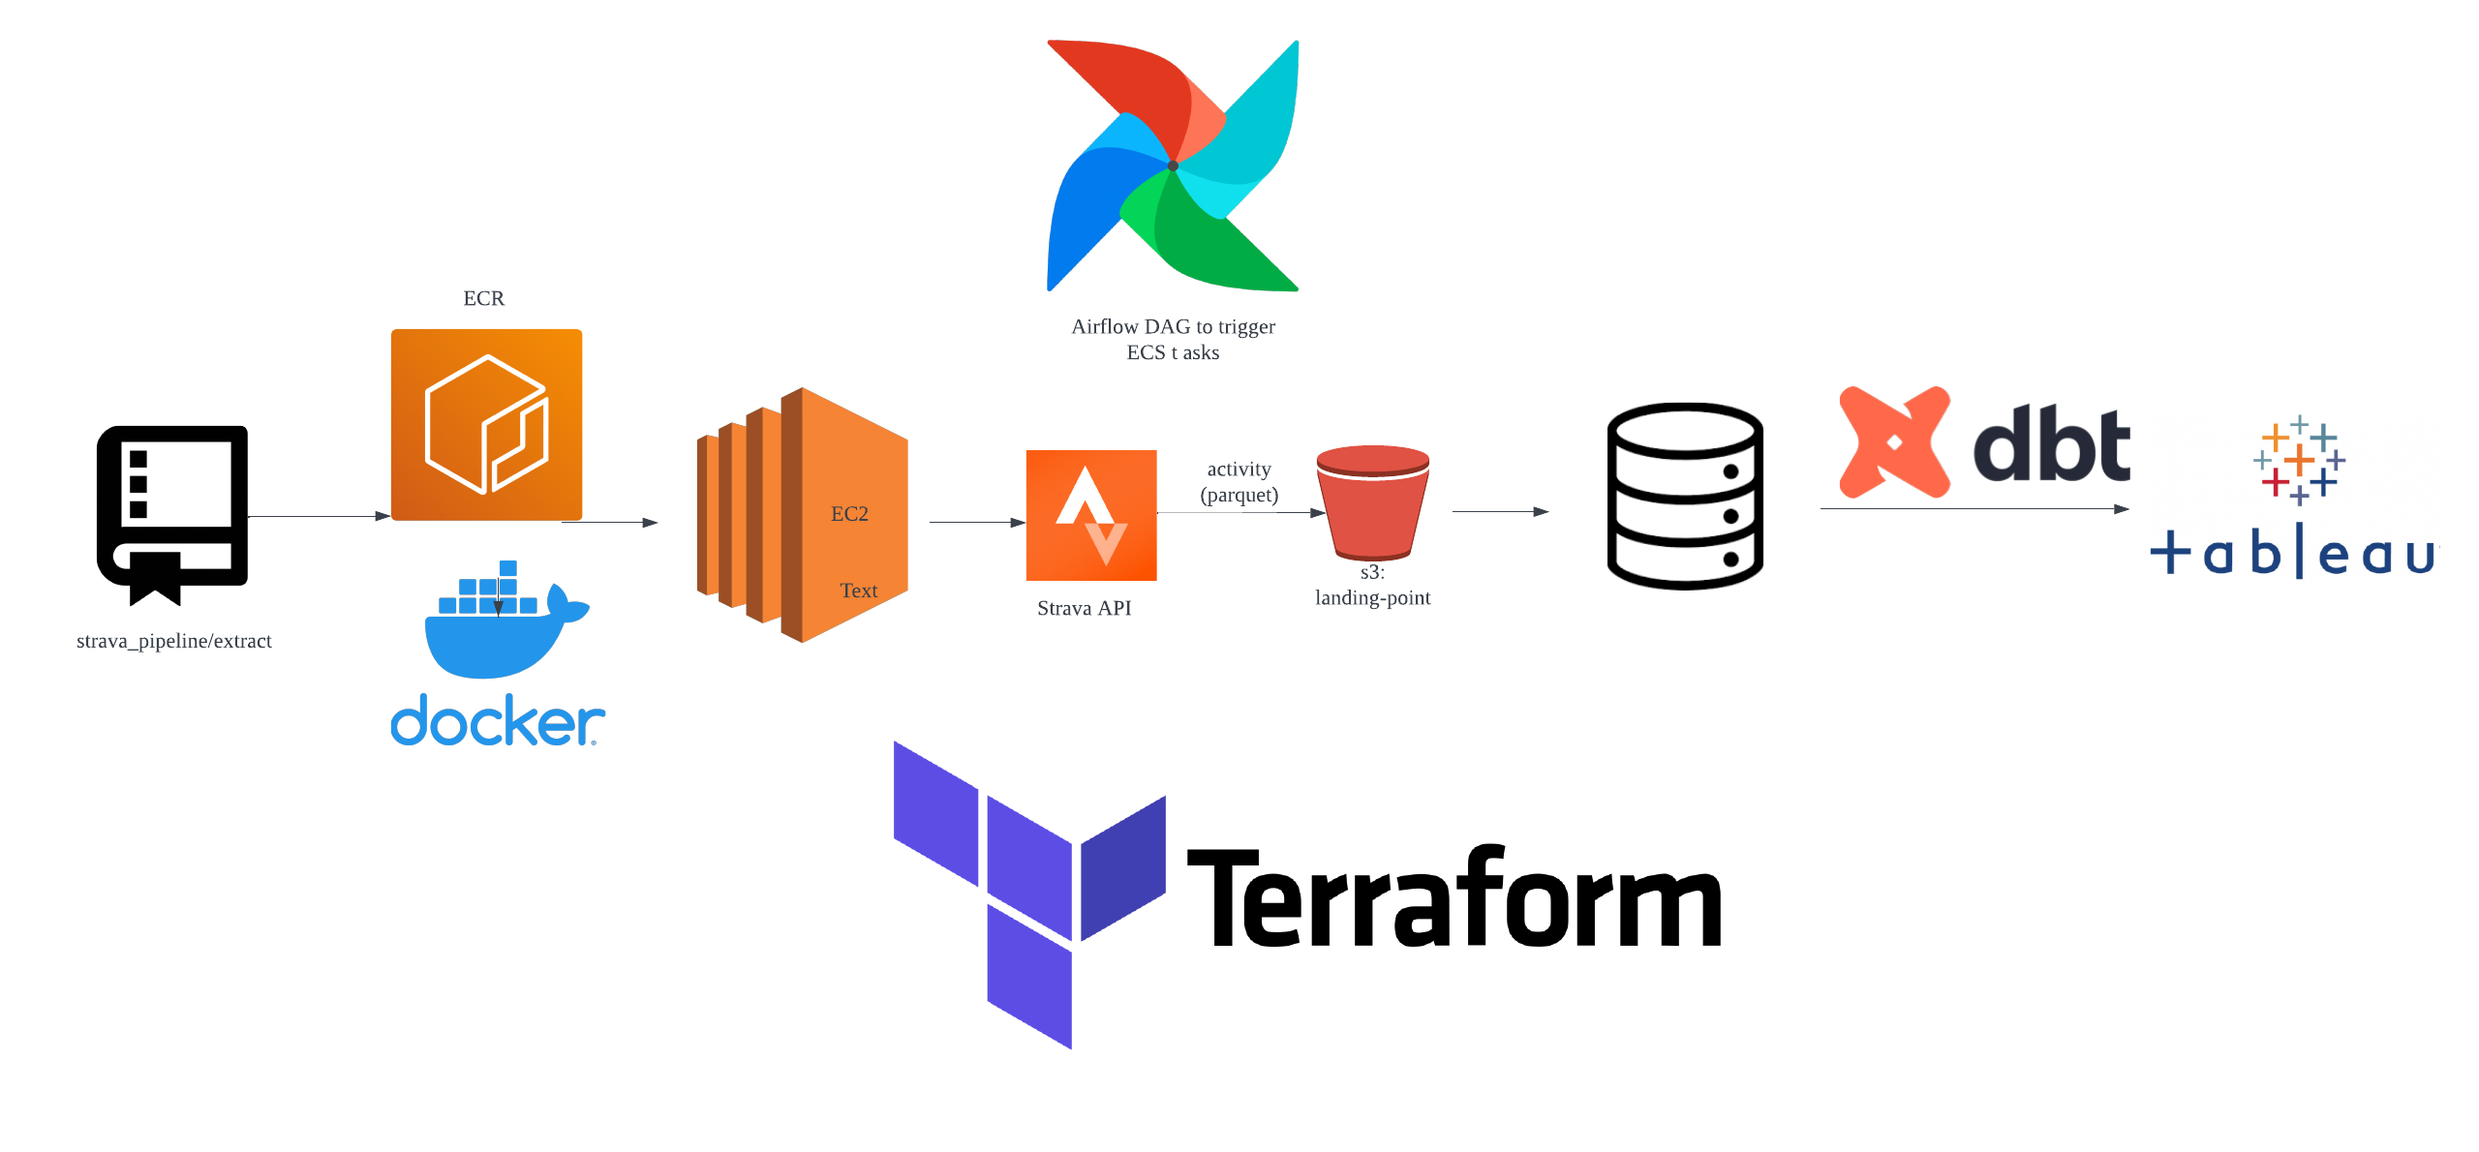
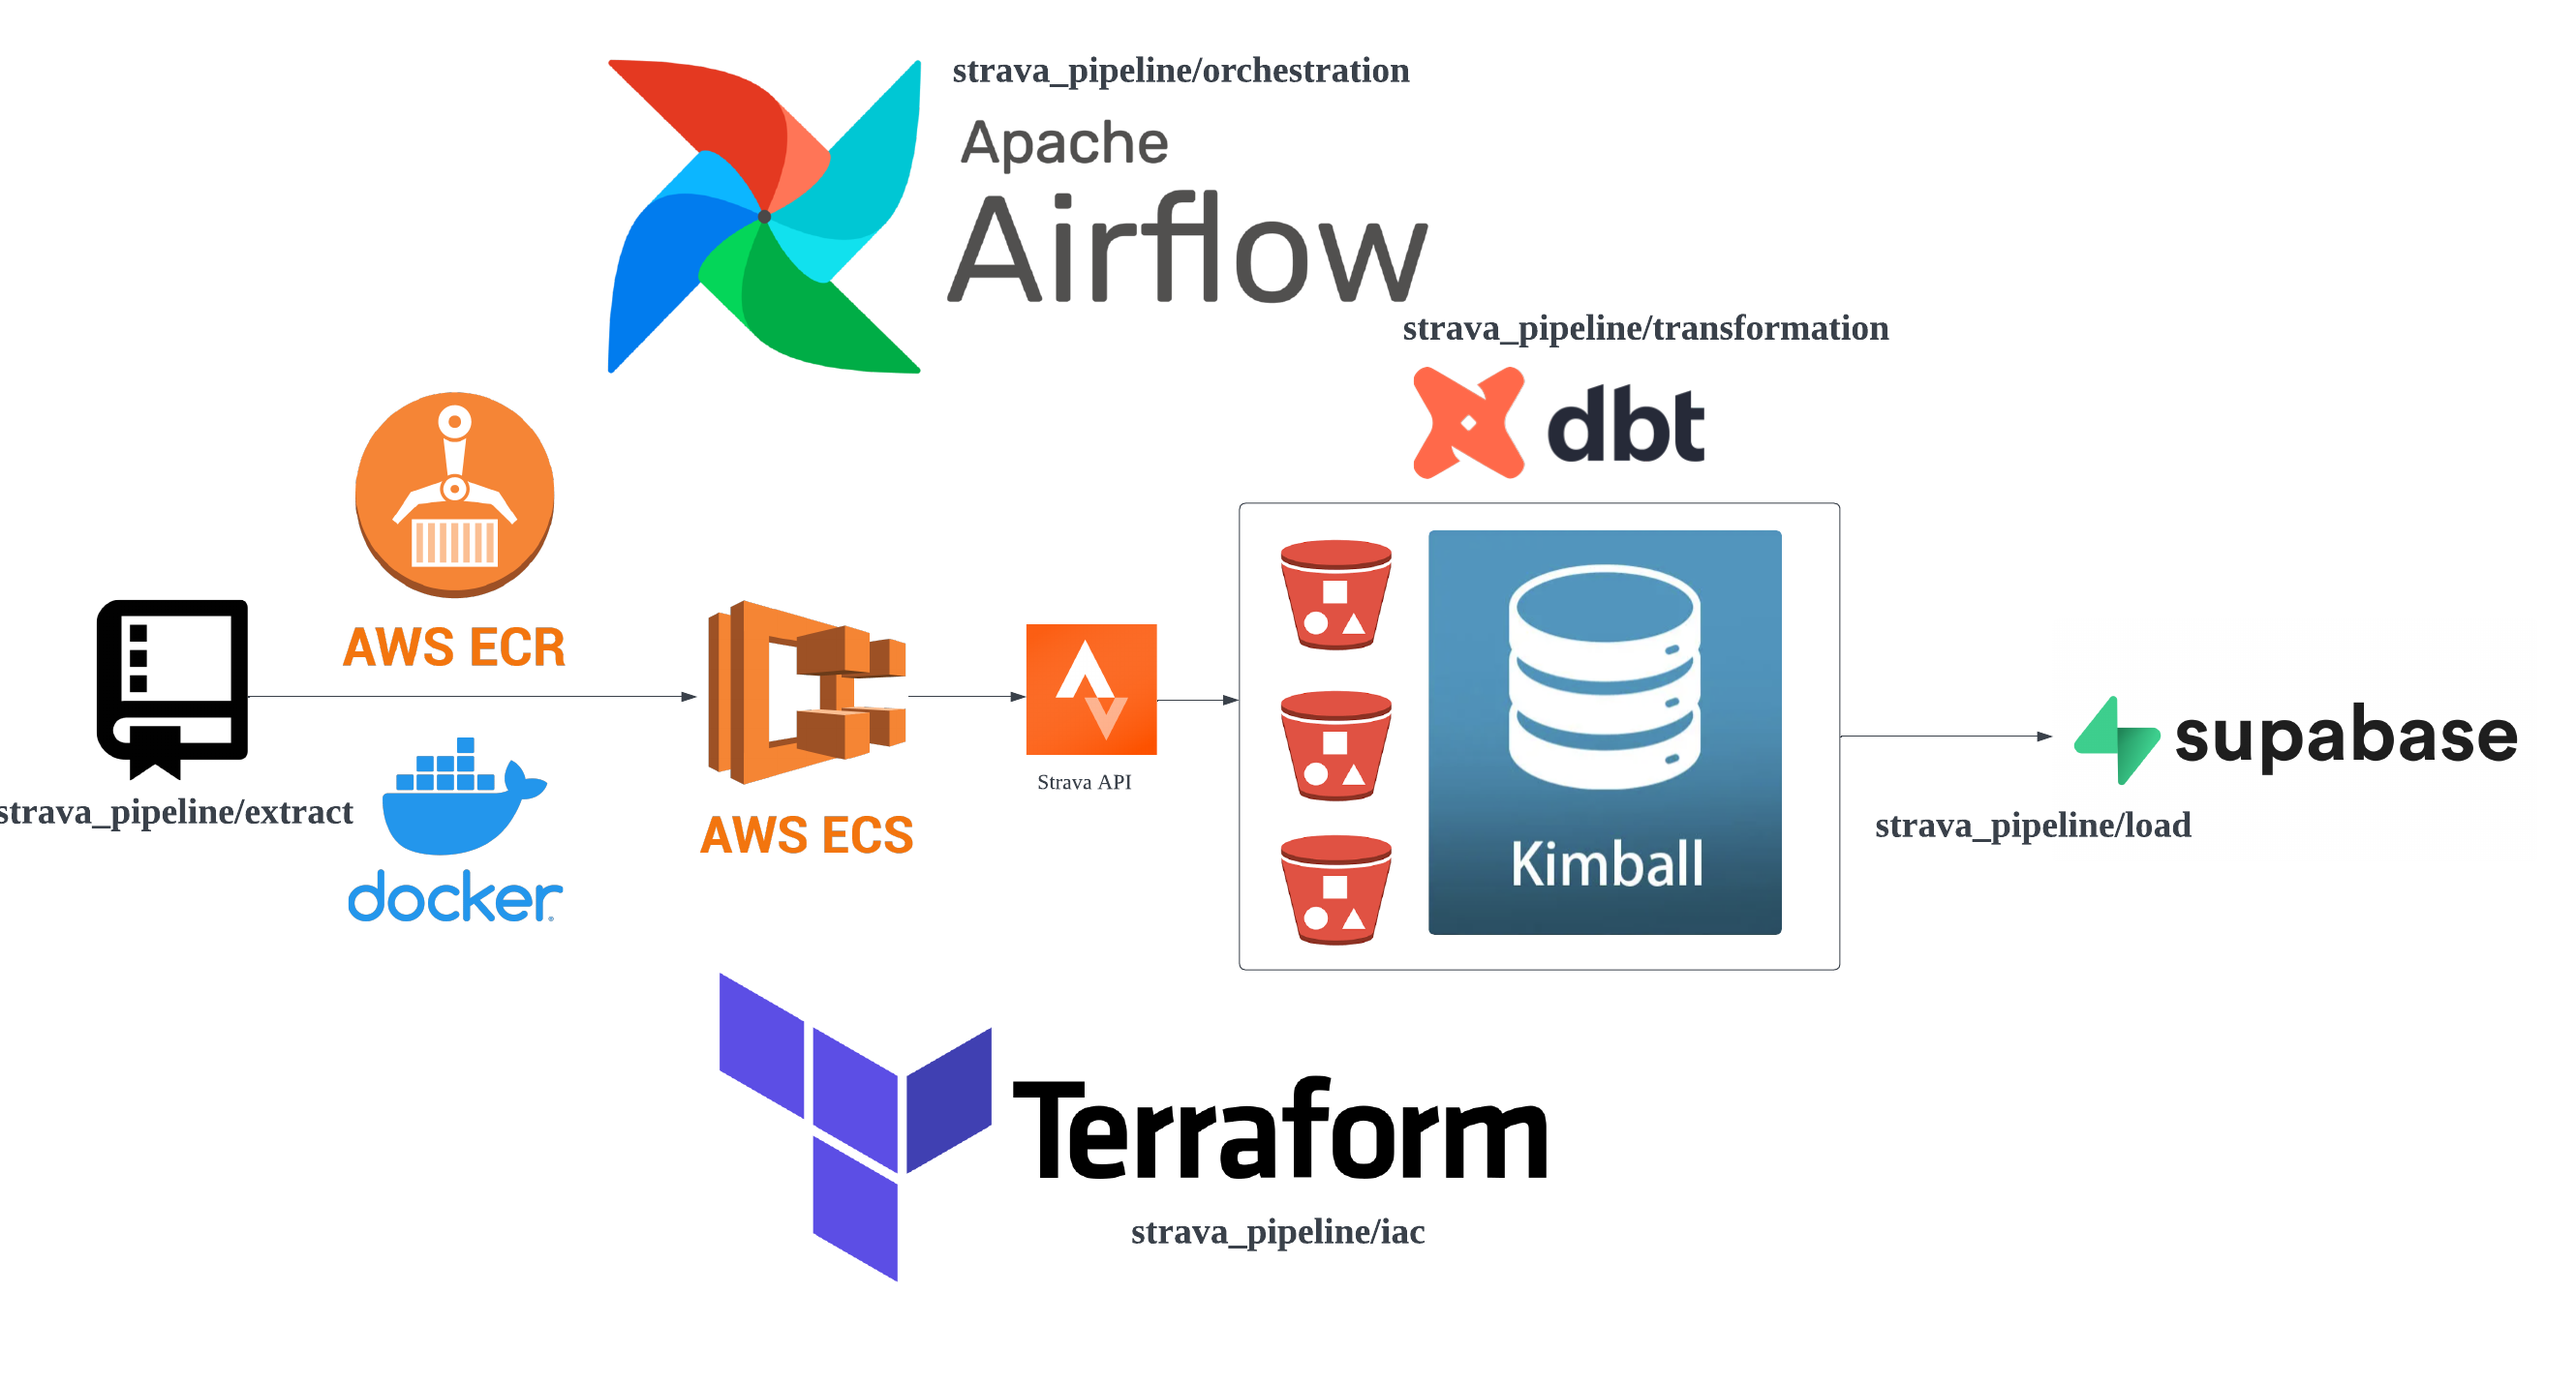
SNG-17 Provision Supabase (#32)
* SNG-17 Provision Supabase

* SNG-17 chore: Remove supabase ignores

* SNG-17 feat: Set up pipe from S3 to Supabase

* SNG-17 chore: Update README.md

* SNG-17 fix: Pass correct supabase project ref

* chore: Rename terraform to IaC

* feat: Update archi.png

diff --git a/pipeline/pipeline/load/utils/pg_helper.py b/pipeline/pipeline/load/utils/pg_helper.py
@@ -1,0 +1,47 @@
+import psycopg2
+from utils.env_helper import load_env_vars
+
+
+class SupaCursor:
+    def __init__(self):
+        self.connection_string = load_env_vars()["SUPABASE_CONNECTION_ID"]
+        self.conn = None
+        self.cursor = None
+
+    def connect(self):
+        try:
+            self.conn = psycopg2.connect(self.connection_string)
+            self.cursor = self.conn.cursor()
+            print("Connected to Supabase!")
+        except psycopg2.Error as e:
+            print("Error: Unable to connect to the Supabase...")
+            print(e)
+
+    def execute(self, query, params=None):
+        try:
+            self.cursor.execute(query, params)
+            print("Query executed successfully!")
+        except psycopg2.Error as e:
+            print("Error: Unable to execute query...")
+            print(e)
+
+    def commit(self):
+        try:
+            self.conn.commit()
+            print("Transaction committed successfully!")
+        except psycopg2.Error as e:
+            print("Error: Unable to commit the transaction...")
+            print(e)
+
+    def close(self):
+        if self.cursor:
+            self.cursor.close()
+        if self.conn:
+            self.conn.close()
+        print("Connection to PostgreSQL database closed")
+
+    def supa_run(self, query):
+        self.connect()
+        self.execute(query)
+        self.commit()
+        self.close()

diff --git a/pipeline/pipeline/load/utils/env_helper.py b/pipeline/pipeline/load/utils/env_helper.py
@@ -1,0 +1,12 @@
+import os
+
+
+def load_env_vars() -> dict:
+
+    SUPABASE_CONNECTION_ID = os.environ.get("SUPABASE_CONNECTION_ID")
+
+    env_vars = {
+        "CLIENT_ID": SUPABASE_CONNECTION_ID,
+    }
+
+    return env_vars

diff --git a/pipeline/pipeline/load/main.py b/pipeline/pipeline/load/main.py
@@ -1,0 +1,14 @@
+from utils.pg_helper import SupaCursor
+
+
+def main():
+    postgres_cursor = SupaCursor()
+
+    query = """
+
+    """
+    postgres_cursor.supa_run(query)
+
+
+if __name__ == "__main__":
+    main()

diff --git a/README.md b/README.md
@@ -1,9 +1,27 @@
 # strava_pipeline
+
+# Initial Data Architecture Diagram
+![Archi](https://github.com/haojunsng/simple_pipeline/blob/main/pipeline/assets/archi.png)
+
 This repository contains two parts - navigate to the respective subfolders for a more in-depth description.
 - [`extract/`](https://github.com/haojunsng/strava_pipeline/tree/main/pipeline/pipeline/extract#readme) contains the logic of data extraction from STRAVA API.
 - [`terraform/`](https://github.com/haojunsng/strava_pipeline/tree/main/pipeline/pipeline/terraform#readme) contains the IaC for all necessary resources provisioned.
 - [`orchestration/`](https://github.com/haojunsng/strava_pipeline/tree/main/pipeline/pipeline/orchestration#readme) contains the airflow code and DAGs.
 
+## Environment Variable Management
 
-# Initial Data Architecture Diagram
-![Archi](https://github.com/haojunsng/simple_pipeline/blob/main/pipeline/assets/archi.png)
+### Using direnv and .envrc
+
+Selected [direnv](https://direnv.net/) along with a `.envrc` file to manage environment variables in the development environment. This automatically loads environment variables when entering the project directory.
+
+### Terraform Environment Variables
+
+For Terraform-related environment variables, they are prefixed with `TF_VAR_`. This ensures that the environment variables can be registered by `.tf` files.
+
+### Python Environment Variables
+
+In Python code, a straightforward method of retrieval is used (`os.environ.get`) to access environment variables.
+
+## Secure Credential Management
+
+Confidential credentials, such as API keys and database passwords, are securely stored in the AWS Systems Manager (SSM) Parameter Store. They are retrieved securely at runtime and passed into the ECS containers.
